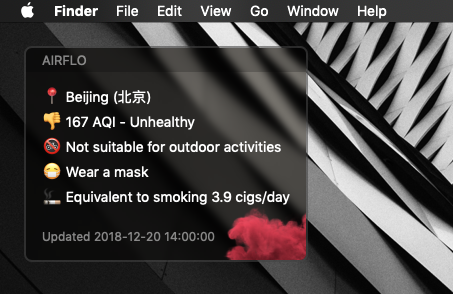
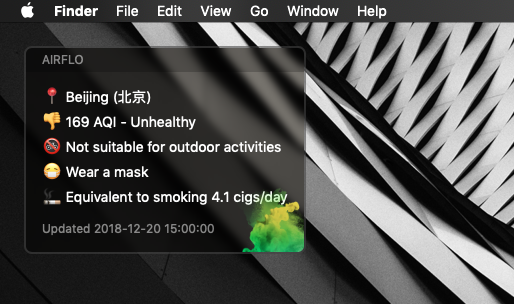
img update

diff --git a/index.jsx b/index.jsx
@@ -52,7 +52,7 @@ export const render = state => {
   const cityaqi = Math.round((AqiToPm25(state.aqi) * 10) / 10);
   const cig = cityaqi / 22;
   const cigr = Math.round(cig * 10) / 10;
-  var firstWord = state.cityname.replace(/(([^\s]+\s\s*){2})(.*)/, "$1…"); // limit the cityname to only 2 words
+  var firstWord = state.cityname.replace(/(([^\s]+\s\s*){2})(.*)/, "$1…"); // limit the cityname to only 2 worads
   function check() {
     if (state.aqi <= 50) {
       // excellent
@@ -61,7 +61,7 @@ export const render = state => {
           <div className={header}>Airflo</div>
           <div className={main}>
             <p className={height}> {`📍 ${firstWord}`}</p>
-            <p className={height}> {`💚  ${state.aqi} AQI - Excellent Day`}</p>
+            <p className={height}> {`💚  ${state.aqi} AQI - Excellent`}</p>
             <p className={height}>🏃 Suitable for outdoor activities</p>
             <p className={height}>😍 Enjoy this wonderfull day</p>
           </div>
@@ -99,7 +99,7 @@ export const render = state => {
             <p className={height}>🚬 Equivalent to smoking {cigr} cigs/day</p>
           </div>
           <span className={Small}>Updated {`${state.daterr}`}</span>
-          <div className={image_y} />
+          <div className={image_r} />
         </div>
       );
     } else if (state.aqi <= 200) {
@@ -184,6 +184,7 @@ export const updateState = (event, previousState) => {
         City data not available. Replace with another city
       </p>
     );
+    console.log("love");
     return previousState;
   } else {
     const aqi = event.data.data.aqi,
@@ -191,7 +192,6 @@ export const updateState = (event, previousState) => {
       daterr = event.data.data.time.s;
 
     return {
-      status,
       aqi,
       cityname,
       daterr
@@ -201,10 +201,10 @@ export const updateState = (event, previousState) => {
 
 export const wrapper = css`
   position: fixed;
-  backdrop-filter: blur(6px) sepia(0.2);
+  backdrop-filter: blur(4px) sepia(0.2);
   top: 24px;
   left: 24px;
-  background: rgba(0, 0, 0, 0.6);
+  background: rgba(0, 0, 0, 0.5);
   background-size: 300px;
   border-radius: 8px;
   color: white;
@@ -222,7 +222,7 @@ export const header = css`
   background: rgba(0, 0, 0, 0.2);
   padding: 0px 16px;
   line-height: 24px;
-  font-size: 13px;
+  font-size: 12px;
   text-transform: uppercase;
   color: rgba(255, 255, 255, 0.5);
   vertical-align: center;
@@ -237,24 +237,11 @@ export const image_g = css`
   position: absolute;
   width: 100%;
   height: 100%;
-  right: -40%;
-  background: url("http://pngimg.com/uploads/smoke/smoke_PNG55233.png")
-    no-repeat;
+  right: -70%;
+  background: url("http://pngimg.com/uploads/cloud/cloud_PNG5.png") no-repeat;
   background-size: 300px;
   opacity: 0.88;
-  bottom: -20%;
-`;
-
-export const image_r = css`
-  position: absolute;
-  width: 100%;
-  height: 100%;
-  right: -45%;
-  background: url("http://pngimg.com/uploads/smoke/smoke_PNG55173.png")
-    no-repeat;
-  background-size: 300px;
-  opacity: 0.88;
-  bottom: -40%;
+  bottom: -45%;
 `;
 
 export const image_y = css`
@@ -267,6 +254,17 @@ export const image_y = css`
   background-size: 300px;
   opacity: 0.88;
   bottom: -65%;
+`;
+export const image_r = css`
+  position: absolute;
+  width: 100%;
+  height: 100%;
+  right: -40%;
+  background: url("http://pngimg.com/uploads/smoke/smoke_PNG55233.png")
+    no-repeat;
+  background-size: 300px;
+  opacity: 0.88;
+  bottom: -30%;
 `;
 
 export const loading = css`
@@ -286,6 +284,6 @@ export const height = css`
 export const Small = css`
   font-size: 12px;
   opacity: 0.5;
-  padding: 8px 16px 16px 16px;
+  padding: 0px 16px 16px;
   display: block;
 `;
